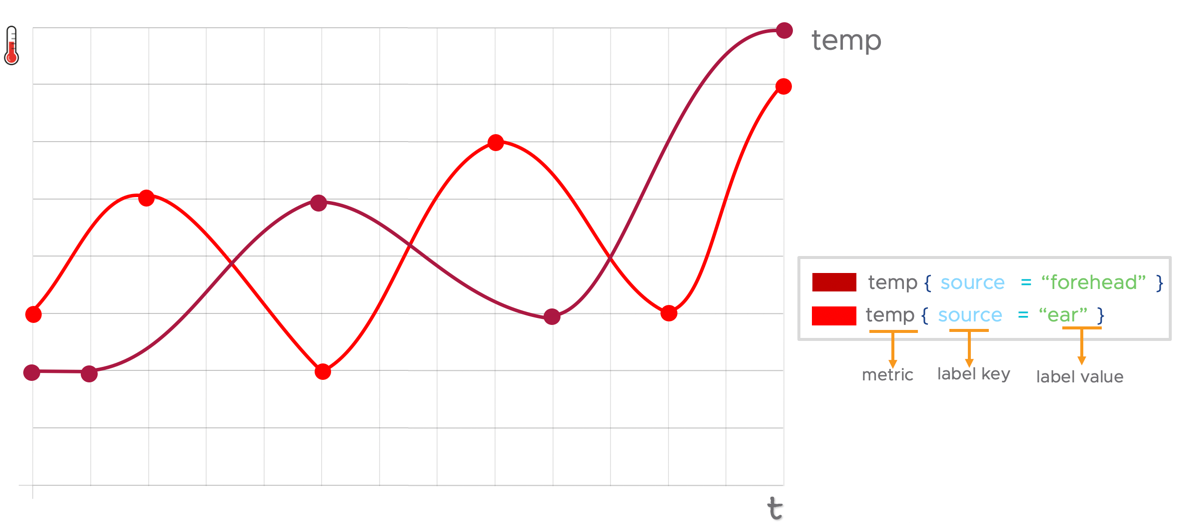
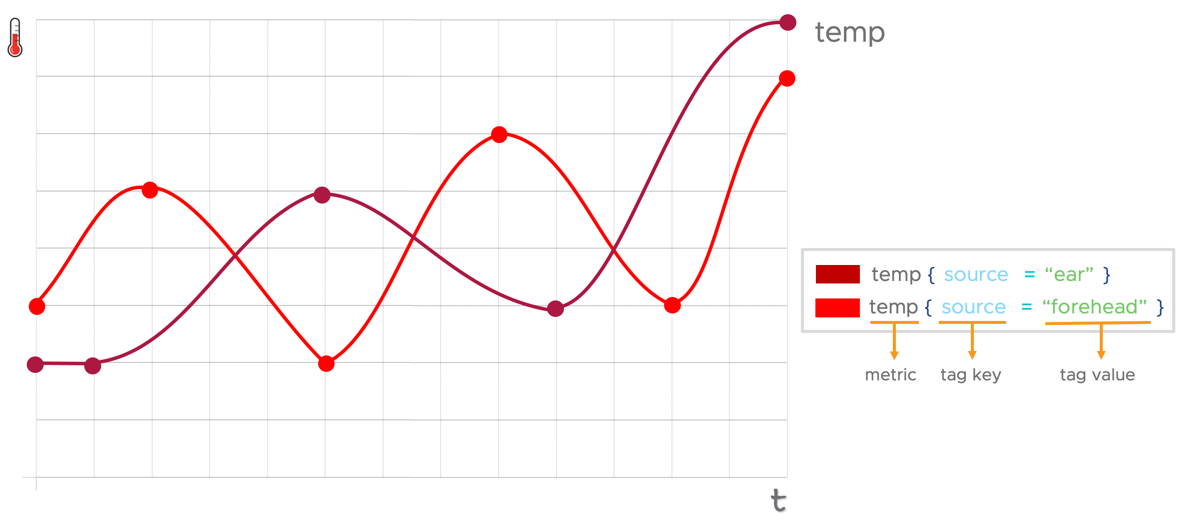
some updates (includes screenshot)

diff --git a/pages/doc/query_language_getting_started.md b/pages/doc/query_language_getting_started.md
@@ -30,7 +30,7 @@ Before you run your first query, let's examine a time series and look at the ele
 
 A time series measures a particular phenomenon over time. In the example below:
 * The time series metric is `temperature`
-* Two types are `forehead` and `ear`. In Wavefront, the types could show up as values of a `location` tag.
+* Two types are `ear` and `forehead`. In Wavefront, the types could show up as values of a `location` tag.
 * This diagram does not show sources, but in Wavefront, you could have a source associated with ear time series.
 
 ![line chart of 2 temperature time series, one for type== forehead and one for type=ear](images/time_series_basic.png)
